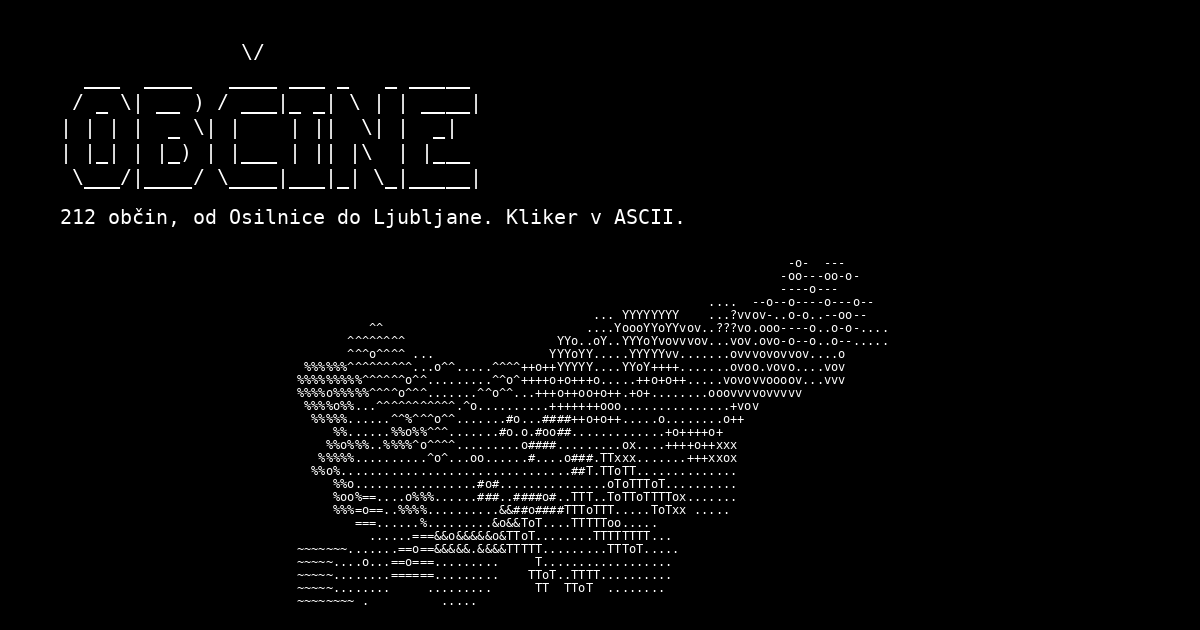
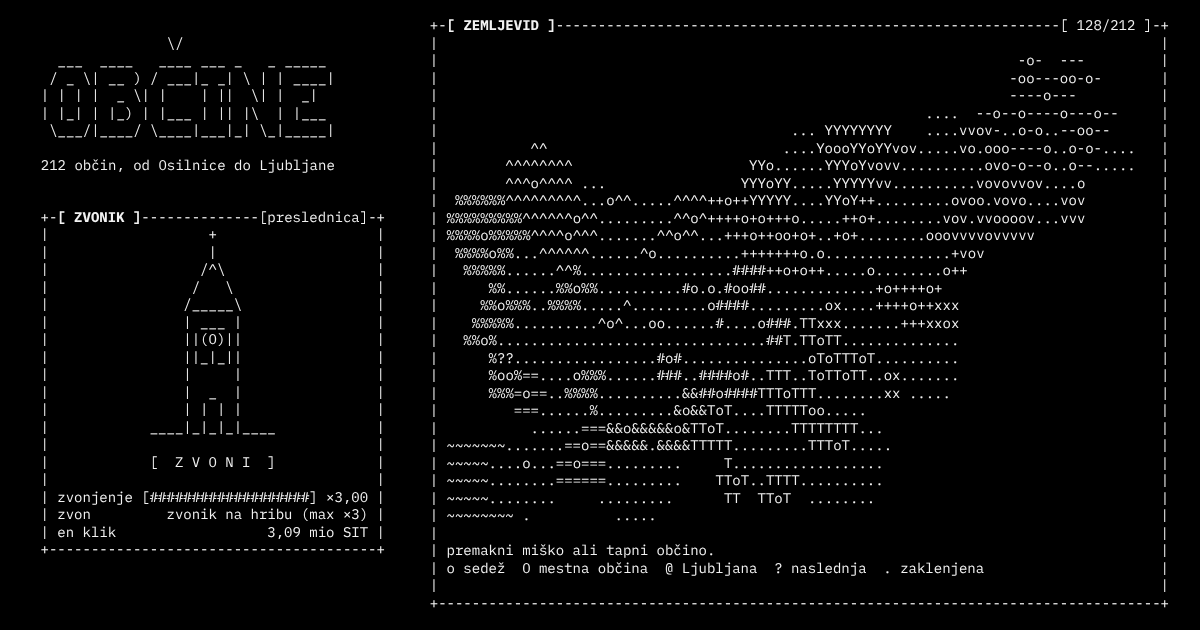
New link-preview image from the current game
Banner, bell tower with a full ringing meter, and the map at 128/212,
rendered from the game itself. The image address carries ?v=2 so chat
apps that cached the old preview fetch the new one.

Claude-Session: https://claude.ai/code/session_011S4VzmSE5GenGnwfxw3nMq

diff --git a/index.html b/index.html
@@ -12,7 +12,7 @@
 <link rel="manifest" href="site.webmanifest">
 <meta property="og:title" content="Občine: kliker">
 <meta property="og:description" content="Odkleni vseh 212 slovenskih občin. V ASCII.">
-<meta property="og:image" content="https://collarcore.github.io/improved-disco/og.png">
+<meta property="og:image" content="https://collarcore.github.io/improved-disco/og.png?v=2">
 <meta property="og:url" content="https://collarcore.github.io/improved-disco/">
 <meta name="twitter:card" content="summary_large_image">
 <link rel="preload" href="fonts/ibm-plex-mono-latin-400-normal.woff2" as="font" type="font/woff2" crossorigin>

diff --git a/src/game.html b/src/game.html
@@ -12,7 +12,7 @@
 <link rel="manifest" href="site.webmanifest">
 <meta property="og:title" content="Občine: kliker">
 <meta property="og:description" content="Odkleni vseh 212 slovenskih občin. V ASCII.">
-<meta property="og:image" content="https://collarcore.github.io/improved-disco/og.png">
+<meta property="og:image" content="https://collarcore.github.io/improved-disco/og.png?v=2">
 <meta property="og:url" content="https://collarcore.github.io/improved-disco/">
 <meta name="twitter:card" content="summary_large_image">
 <link rel="preload" href="fonts/ibm-plex-mono-latin-400-normal.woff2" as="font" type="font/woff2" crossorigin>
